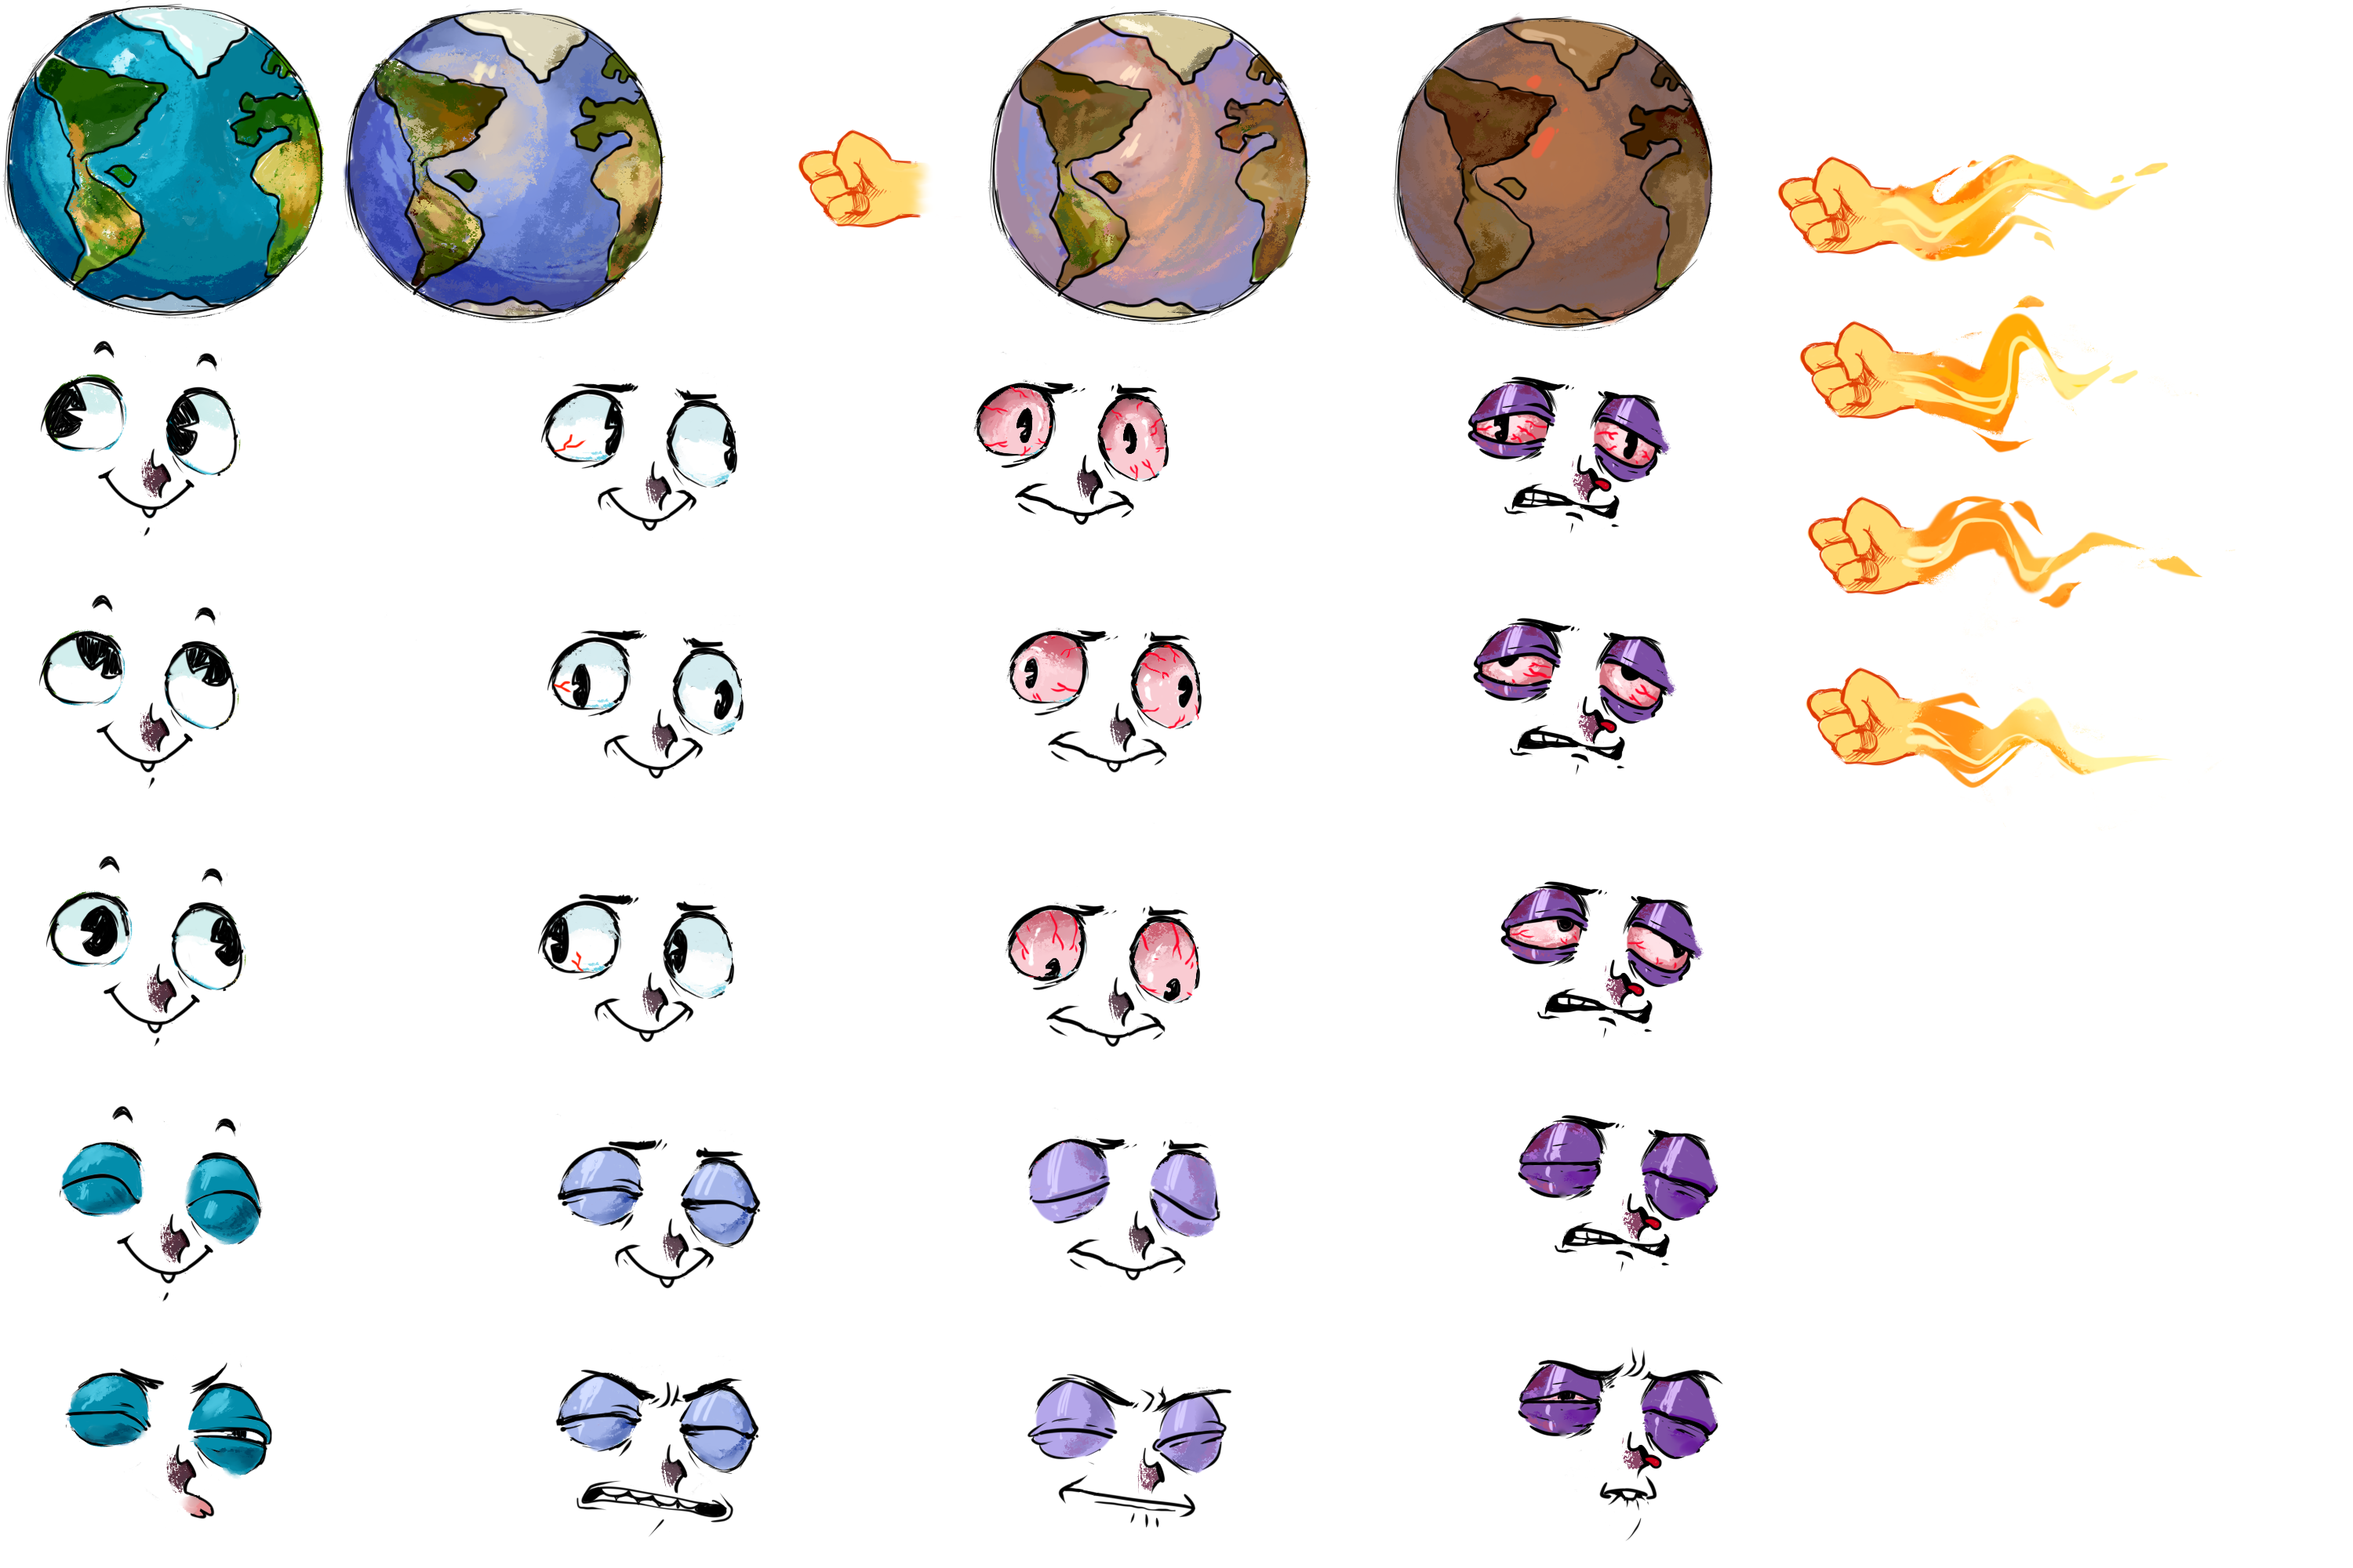
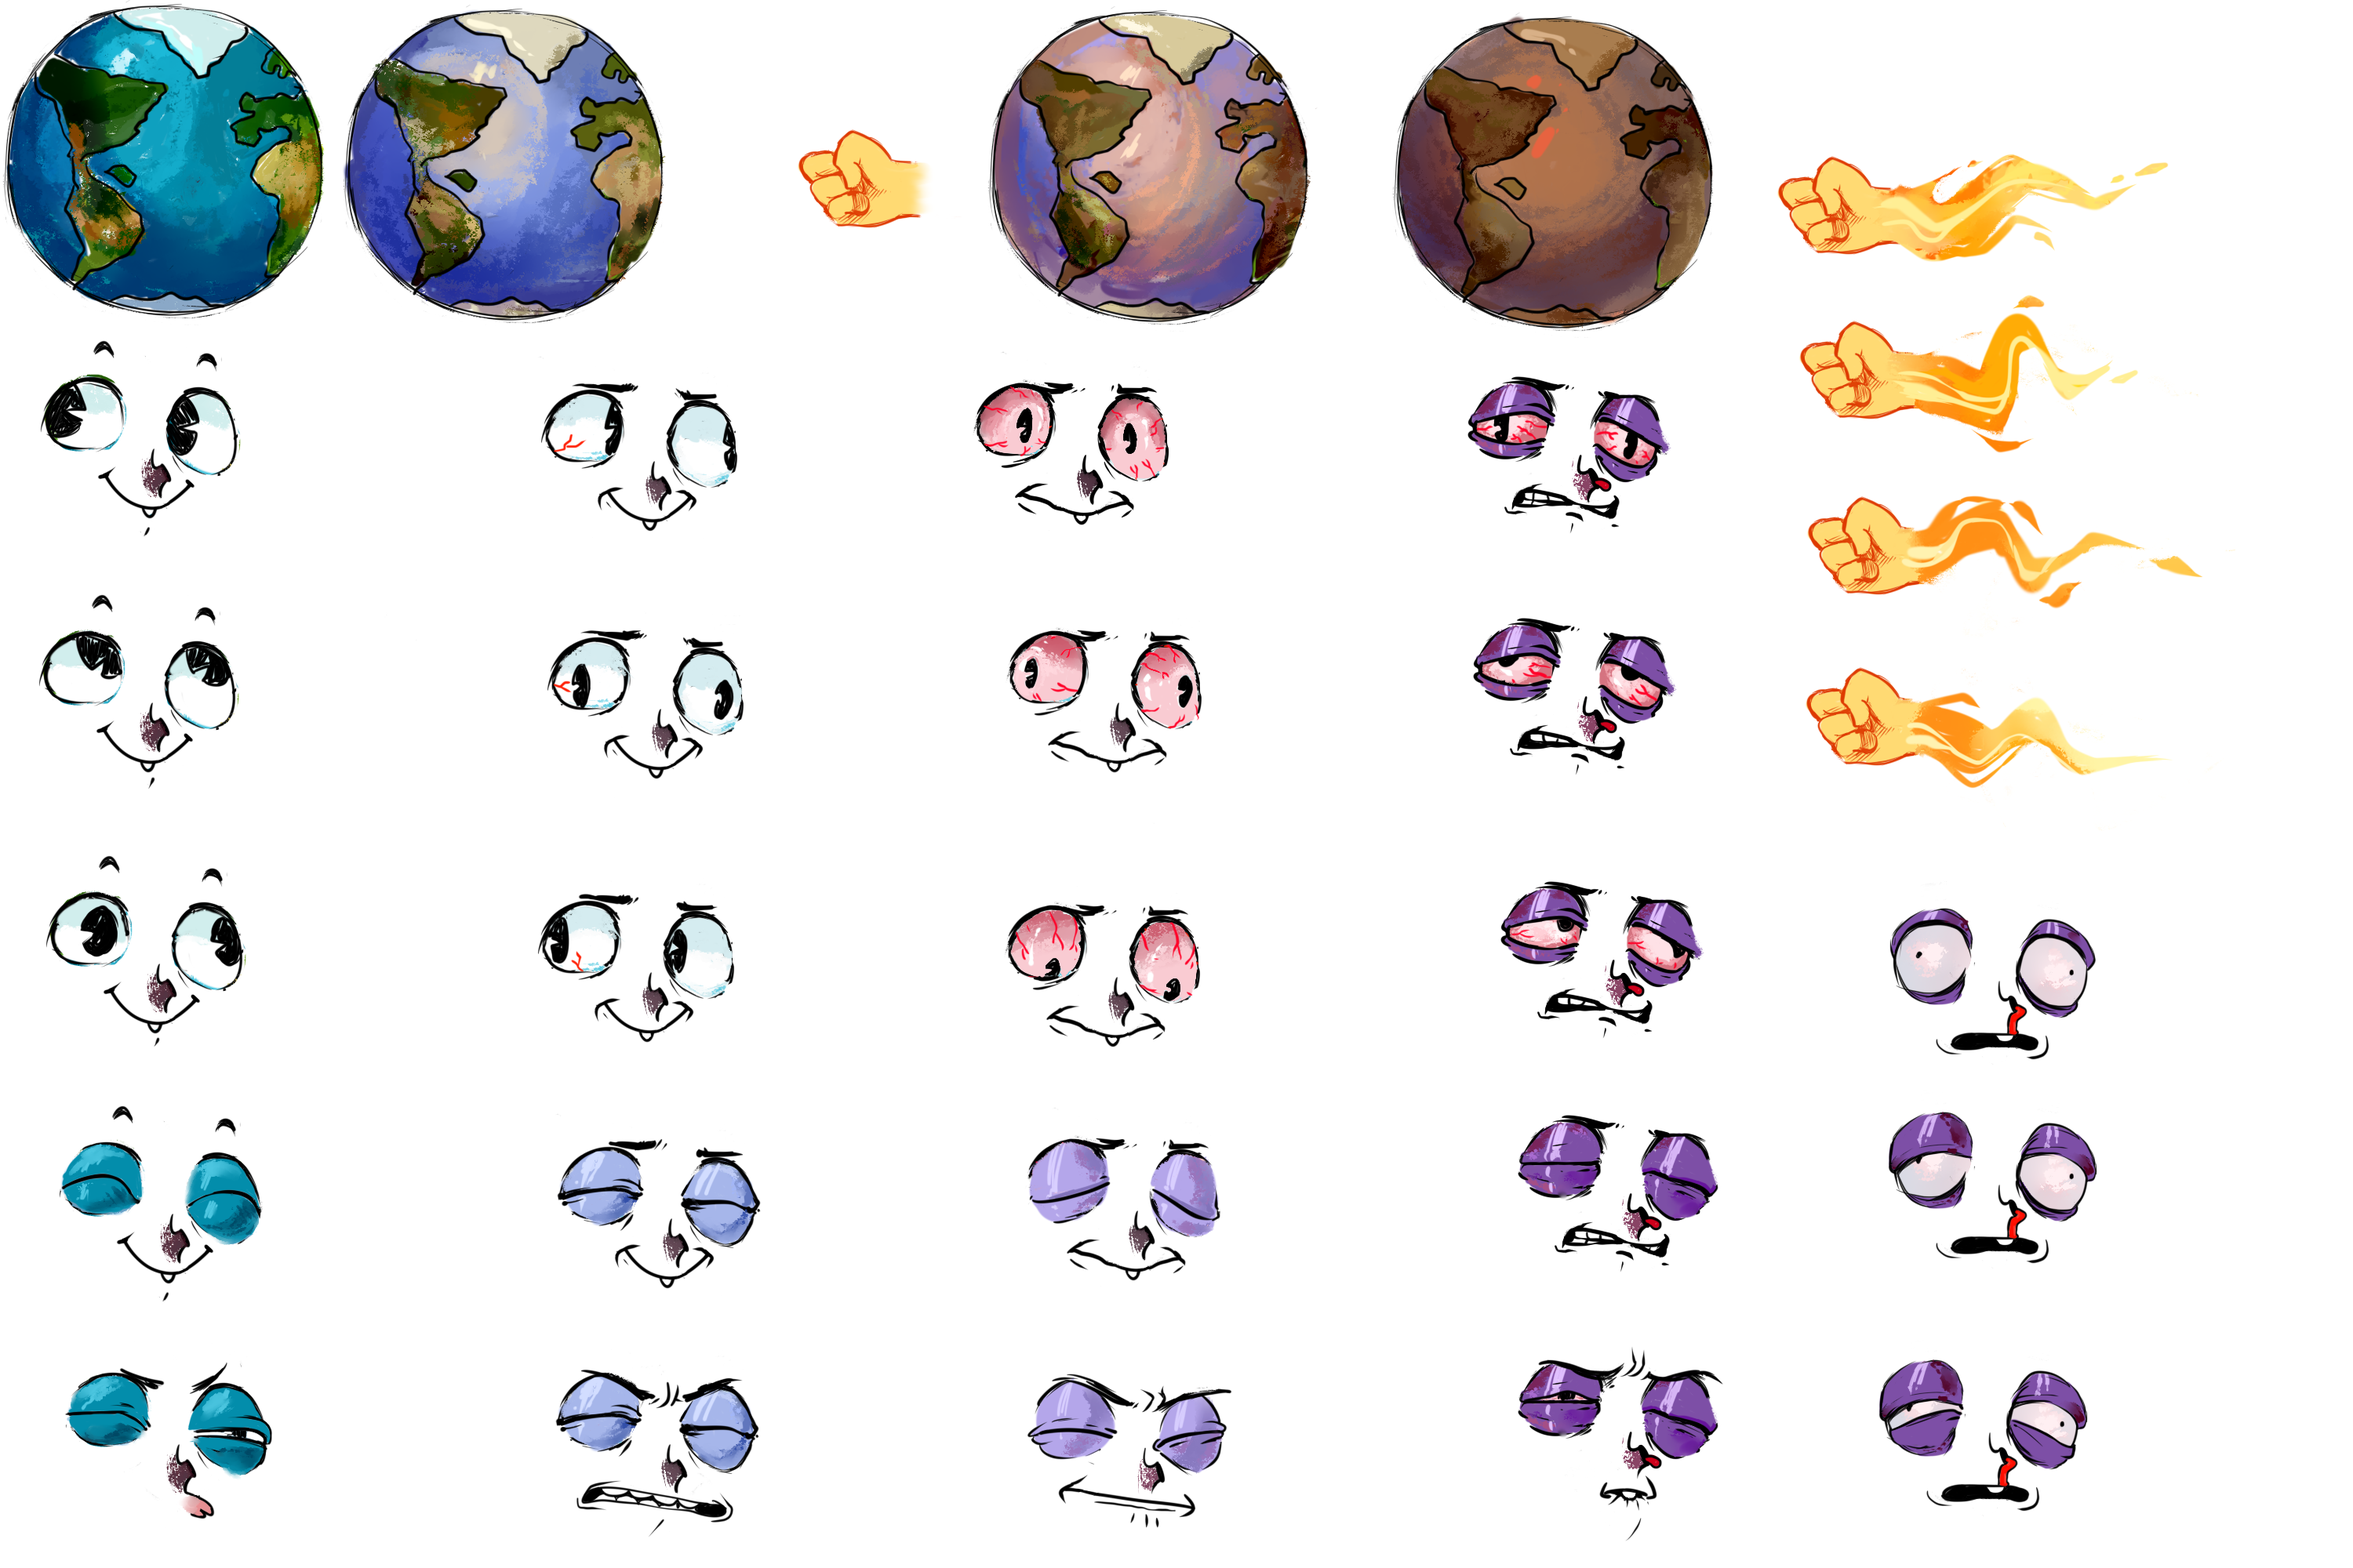
Added high score, updated atlas

diff --git a/Assets/Scenes/GameScene/Scripts/Controller/GameController.cs b/Assets/Scenes/GameScene/Scripts/Controller/GameController.cs
@@ -6,17 +6,20 @@ namespace Scenes.GameScene.Scripts.Controller
     public class GameController
     {
         private readonly IGameView view;
+        private readonly ISaveScore scoreSaver;
         private readonly IProgressionManager progressionManager;
         private PlanetState state;
 
         public GameController(
             IGameView view,
             IProgressionManager progressionManager,
+            ISaveScore scoreSaver,
             PlanetState state)
         {
             this.view = view;
             this.state = state;
             this.progressionManager = progressionManager;
+            this.scoreSaver = scoreSaver;
         }
 
         public void StartTheGame()
@@ -27,9 +30,11 @@ namespace Scenes.GameScene.Scripts.Controller
         public void FinishTheGame()
         {
             view.StopSpawning();
+            CheckAndSaveHighScore();
+            UpdateView();
             view.FinishTheGame(() =>
             {
-
+                
             });
         }
 
@@ -48,7 +53,17 @@ namespace Scenes.GameScene.Scripts.Controller
 
         private void UpdateView()
         {
+            var highScore = scoreSaver.ReadHighScore();
+            view.SetHighScore(highScore);
             view.SetPlantState(state);
+        }
+
+
+        private void CheckAndSaveHighScore()
+        {
+            var highScore = scoreSaver.ReadHighScore();
+            if (highScore < state.Score)
+                scoreSaver.SaveHighScore(state.Score);
         }
 
         private PlanetState UpdateProgression(PlanetState currentState)
@@ -94,6 +109,7 @@ namespace Scenes.GameScene.Scripts.Controller
             var score = state.Score + price;
             state = state.SetScore(score);
             state = UpdateProgression(state);
+            CheckAndSaveHighScore();
             UpdateView();
         } 
     }

diff --git a/Assets/Scenes/GameScene/Scripts/View/GameComponents/Earth.cs b/Assets/Scenes/GameScene/Scripts/View/GameComponents/Earth.cs
@@ -2,6 +2,7 @@
 using Scenes.GameScene.Scripts.Animator;
 using Scenes.GameScene.Scripts.Model;
 using Scenes.GameScene.Scripts.View.Spawner;
+using Scenes.GameScene.Scripts.View.UI;
 using UnityEngine;
 
 namespace Scenes.GameScene.Scripts.View.GameComponents
@@ -14,9 +15,13 @@ namespace Scenes.GameScene.Scripts.View.GameComponents
         [SerializeField]
         private CameraController cameraController;
 
+        [Header("UI Screens")]
+        [SerializeField] 
+        private StartMenu startScreen;
         [SerializeField] 
         private FinishScreen finishScreen;
 
+        [Header("Shield")]
         [SerializeField]
         private Shield shield;
 
@@ -46,8 +51,6 @@ namespace Scenes.GameScene.Scripts.View.GameComponents
             raySpawner.ProjectileSpeed = state.RaySpeed;
             gasSpawner.Cooldown = state.GasSpawnCooldown;
             gasSpawner.ProjectileSpeed = state.GasSpeed;
-
-            Debug.Log($"Score is {state.Score}");
         }
 
         public void InitShield(float shieldRegerationTime)
@@ -65,6 +68,12 @@ namespace Scenes.GameScene.Scripts.View.GameComponents
         {
             gasSpawner.StopSpawning();
             raySpawner.StopSpawning();
+        }
+
+        public void SetHighScore(int score)
+        {
+            startScreen.SetHighScore(score);
+            finishScreen.SetHighScore(score);
         }
 
         public void StartTheGame(Action onFinishAnimation)

diff --git a/Assets/Scenes/GameScene/Scripts/EntryPoint.cs b/Assets/Scenes/GameScene/Scripts/EntryPoint.cs
@@ -13,6 +13,13 @@ namespace Scenes.GameScene.Scripts
         private ProgressionManager progressionManager;
 
         private GameController gameController;
+        private ISaveScore scoreSaver;
+
+        private void Start()
+        {
+            scoreSaver = new PlayerPrefsScoreSaver();
+            earth.SetHighScore(scoreSaver.ReadHighScore());
+        }
 
         private PlanetState GetDefaultState()
         {
@@ -27,13 +34,12 @@ namespace Scenes.GameScene.Scripts
         public void StartGame()
         {
             var startState = GetDefaultState();
-            gameController = new GameController(earth, progressionManager, startState);
+            gameController = new GameController(earth, progressionManager, scoreSaver, startState);
             gameController.StartTheGame();
         }
 
         public void FinishGame()
         {
-            var startState = GetDefaultState();
             gameController.FinishTheGame();
         }
     }

diff --git a/Assets/Scenes/GameScene/Scripts/View/UI/StartMenu.cs b/Assets/Scenes/GameScene/Scripts/View/UI/StartMenu.cs
@@ -1,10 +1,14 @@
-using UnityEngine;
+using TMPro;
+using UnityEngine;
 
 namespace Scenes.GameScene.Scripts.View.UI
 {
     public class StartMenu : MonoBehaviour
     {
         private EntryPoint gameController;
+
+        [SerializeField]
+        private TextMeshProUGUI highScoreText;
 
         private void Start()
         {
@@ -14,6 +18,11 @@ namespace Scenes.GameScene.Scripts.View.UI
         public void StartGame()
         {
             gameController.StartGame();
+        }
+
+        public void SetHighScore(int score)
+        {
+            highScoreText.SetText($"High Score: {score}");
         }
     }
 }

diff --git a/Assets/Scenes/GameScene/Scripts/View/UI/FinishScreen.cs b/Assets/Scenes/GameScene/Scripts/View/UI/FinishScreen.cs
@@ -9,6 +9,8 @@ public class FinishScreen : MonoBehaviour
     [SerializeField]
     private TextMeshProUGUI scoreText;
     [SerializeField]
+    private TextMeshProUGUI highScoreText;
+    [SerializeField]
     private Animator deathAnimator;
 
     public void RestartScene()
@@ -25,5 +27,10 @@ public class FinishScreen : MonoBehaviour
     public void SetScore(int score)
     {
         scoreText.SetText($"Score: {score}");
+    }
+
+    public void SetHighScore(int score)
+    {
+        highScoreText.SetText($"High Score: {score}");
     }
 }

diff --git a/Assets/Scenes/GameScene/Scripts/Model/PlayerPrefsScoreSaver.cs b/Assets/Scenes/GameScene/Scripts/Model/PlayerPrefsScoreSaver.cs
@@ -1,0 +1,18 @@
+using UnityEngine;
+
+namespace Scenes.GameScene.Scripts.Model
+{
+    public class PlayerPrefsScoreSaver : ISaveScore
+    {
+        private const string ScoreKey = "score";
+        public void SaveHighScore(int score)
+        {
+            PlayerPrefs.SetInt(ScoreKey, score);
+        }
+
+        public int ReadHighScore()
+        {
+            return PlayerPrefs.GetInt(ScoreKey, 0);
+        }
+    }
+}

diff --git a/Assets/Scenes/GameScene/Scripts/View/IGameView.cs b/Assets/Scenes/GameScene/Scripts/View/IGameView.cs
@@ -13,6 +13,7 @@ namespace Scenes.GameScene.Scripts.View
         void InitShield(float shieldRegenerationTime);
         void StartSpawning();
         void StopSpawning();
+        void SetHighScore(int score);
         void StartTheGame(Action onFinishAnimation);
         void FinishTheGame(Action onFinishAnimation);
     }

diff --git a/Assets/Scenes/GameScene/Scripts/Model/ISaveScore.cs b/Assets/Scenes/GameScene/Scripts/Model/ISaveScore.cs
@@ -1,0 +1,8 @@
+namespace Scenes.GameScene.Scripts.Model
+{
+    public interface ISaveScore
+    {
+        void SaveHighScore(int score);
+        int ReadHighScore();
+    }
+}

diff --git a/Assets/Scenes/GameScene/Scripts/View/GameComponents/CameraController.cs b/Assets/Scenes/GameScene/Scripts/View/GameComponents/CameraController.cs
@@ -1,7 +1,6 @@
 using System;
 using DG.Tweening;
 using UnityEngine;
-using Vector2 = System.Numerics.Vector2;
 
 namespace Scenes.GameScene.Scripts.View.GameComponents
 {
